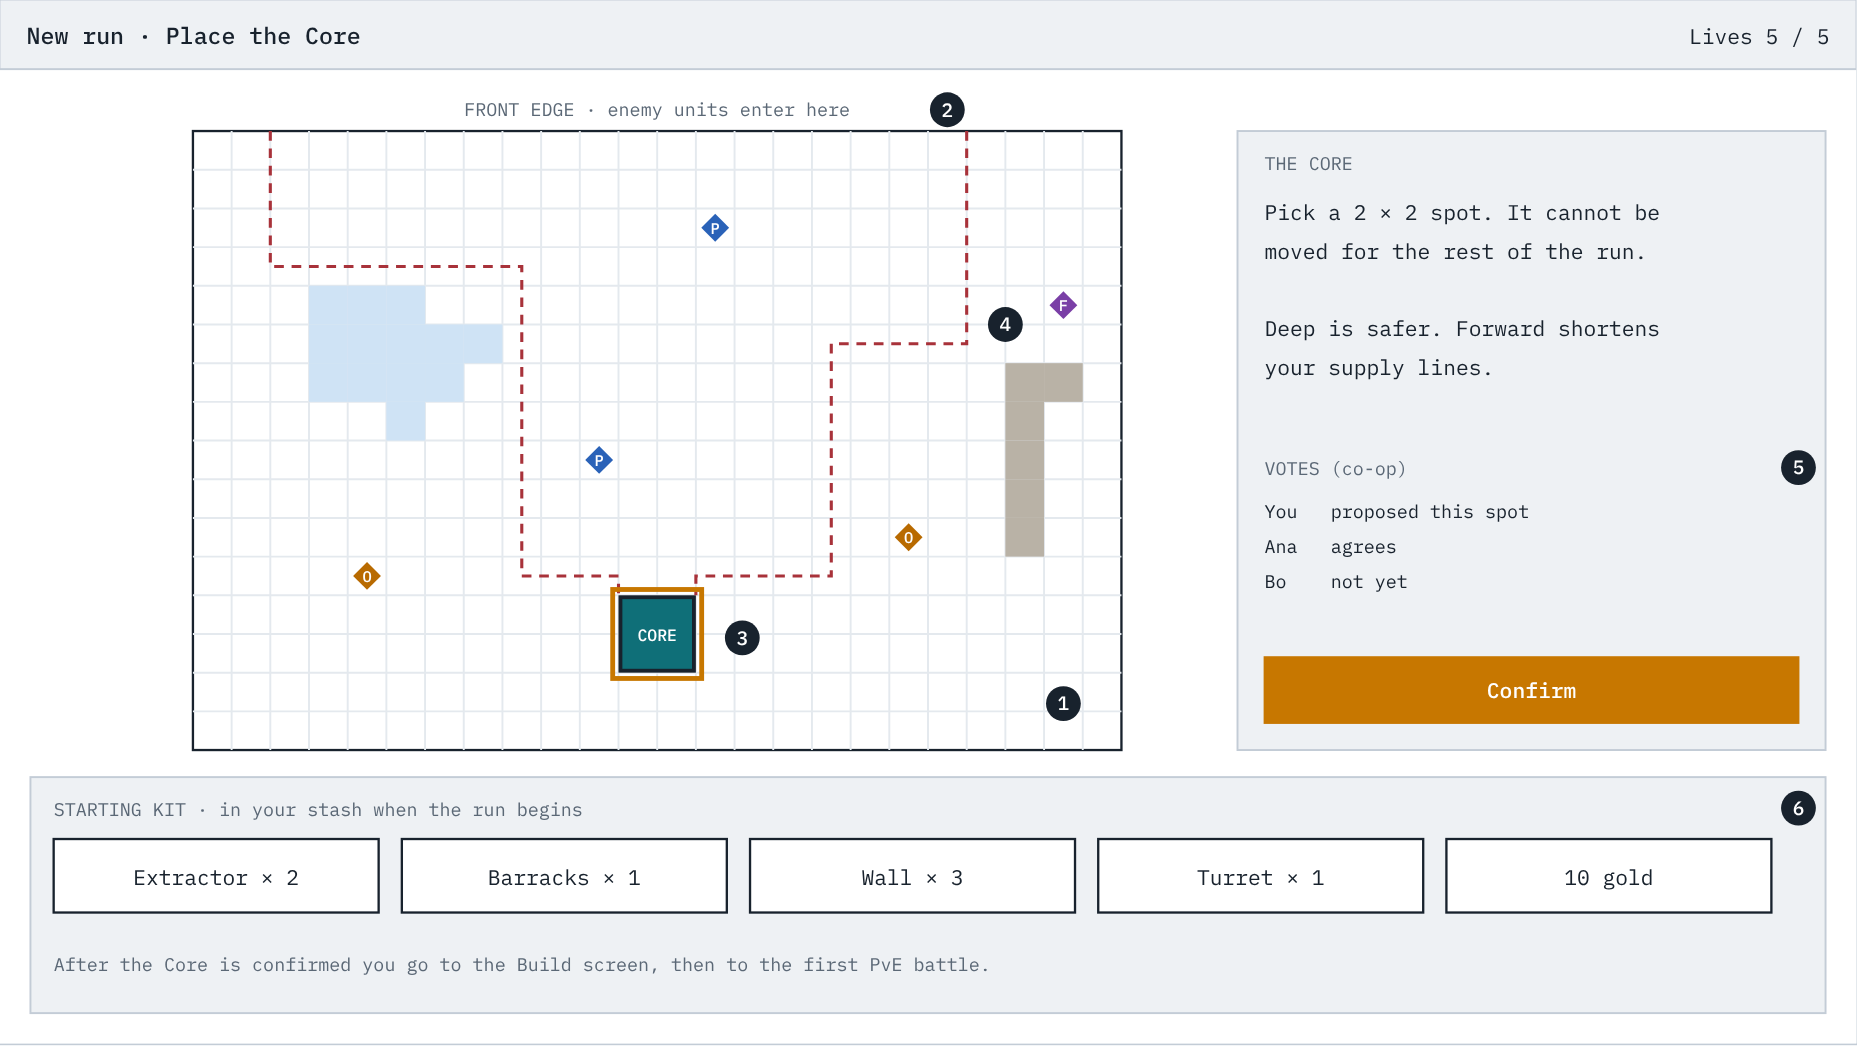
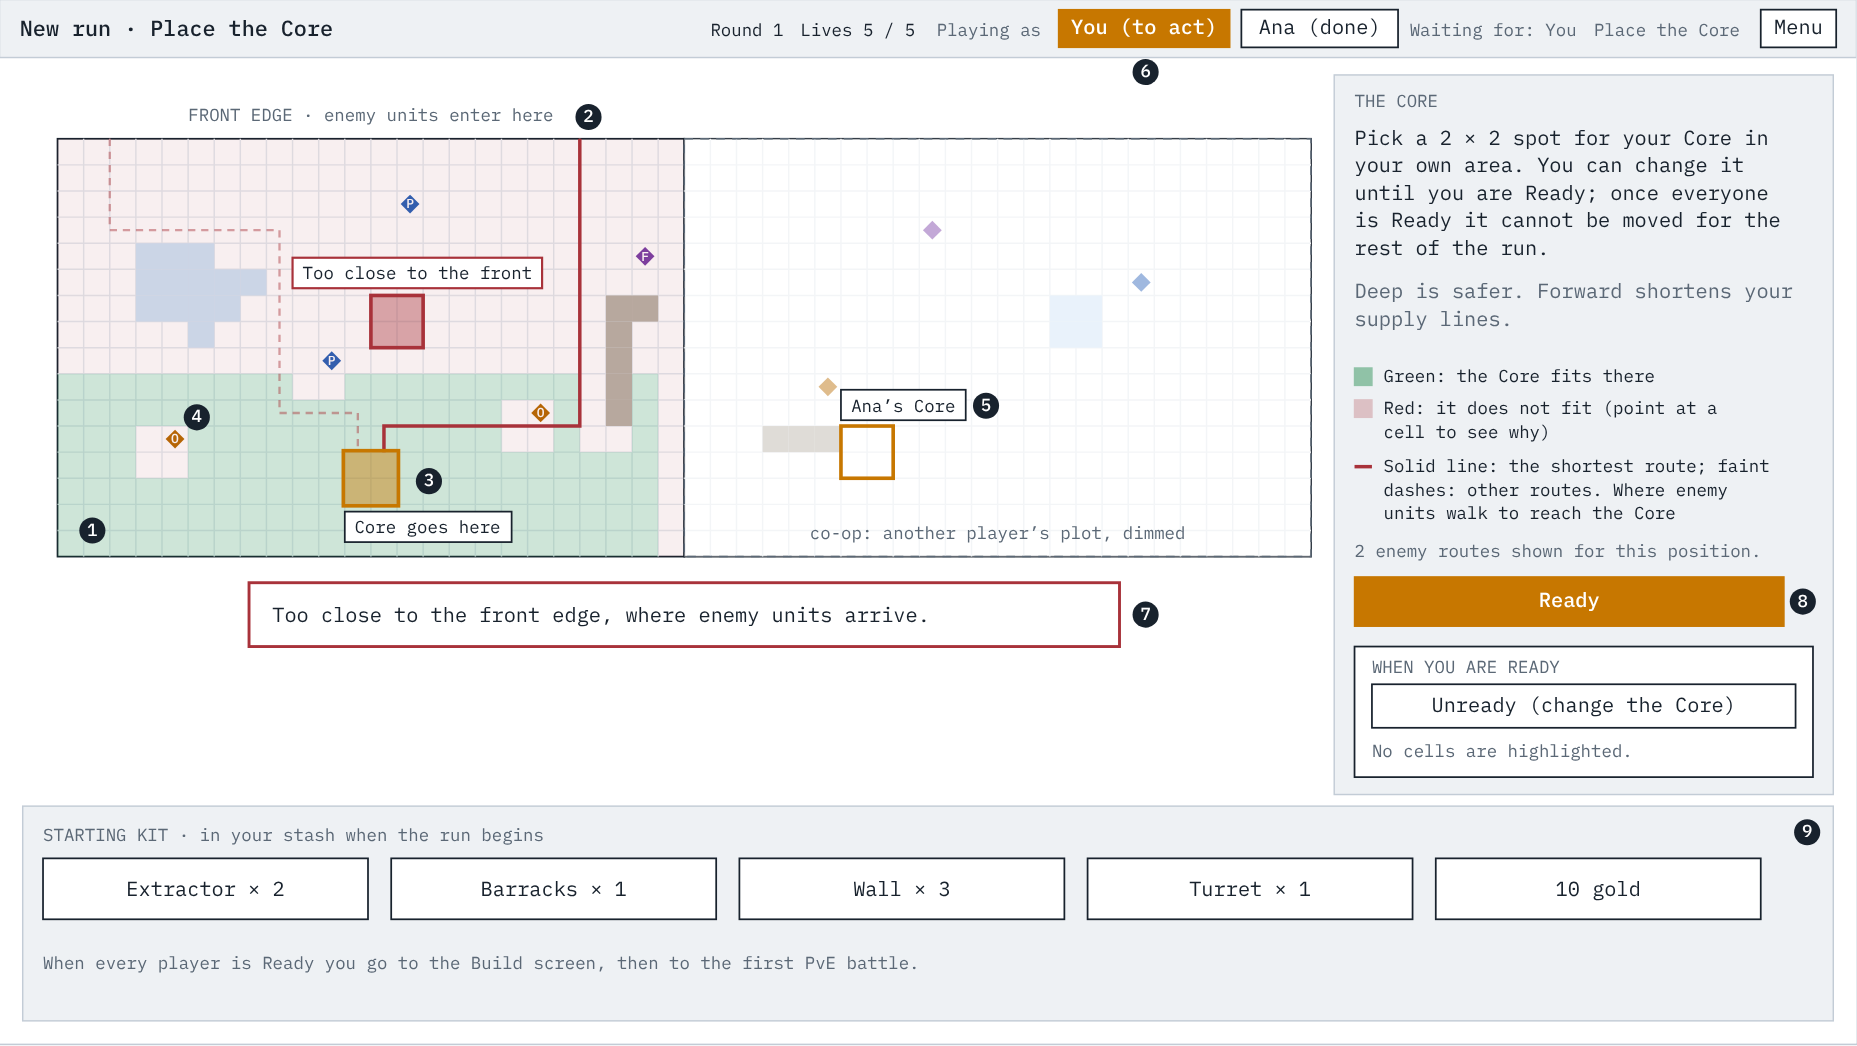
#183: Core placement wireframe redrawn for per-player placement (#217)
Section 6 of screens.html and 6-core-placement.png show the current design: each player places their own Core on their own plot, legal cells are highlighted, the chosen spot is marked, Ready and Unready are per player, and the acting-player switcher sits in the run bar. The old vote list is gone. The wireframes README matches the new callouts.

Part of #183.

diff --git a/docs/wireframes/screens.html b/docs/wireframes/screens.html
@@ -10,7 +10,7 @@
 :root {
   --bg: #f3f5f7; --sheet: #ffffff; --panel: #eef1f4; --ink: #18222d; --muted: #5b6876; --line: #c3ccd6; --grid: #e4e9ee;
   --ally: #0f6f78; --ally-soft: #d9eff0; --enemy: #a8323a; --enemy-soft: #f6dfe1; --neutral: #7a6a3a;
-  --ore: #b86a00; --power: #2a62b8; --flux: #7a3fa6;
+  --ok: #1f8a4c; --ore: #b86a00; --power: #2a62b8; --flux: #7a3fa6;
   --water: #cfe3f5; --cliff: #b9b2a6; --accent: #c77700; --accent-ink: #ffffff;
   --font-display: "Space Grotesk", "Segoe UI", system-ui, sans-serif;
   --font-body: "Inter", system-ui, -apple-system, "Segoe UI", sans-serif;
@@ -20,14 +20,14 @@
   :root:not([data-theme="light"]) {
     --bg: #11171d; --sheet: #19212a; --panel: #212b36; --ink: #e6ebf0; --muted: #9aa7b4; --line: #3a4653; --grid: #26313c;
     --ally: #5cc4cc; --ally-soft: #153438; --enemy: #ef7f86; --enemy-soft: #3b1d20; --neutral: #c9b26a;
-    --ore: #f2a93b; --power: #7fb0f5; --flux: #c394ea;
+    --ok: #5cc98a; --ore: #f2a93b; --power: #7fb0f5; --flux: #c394ea;
     --water: #1f3a52; --cliff: #5a554c; --accent: #f2a93b; --accent-ink: #11171d; color-scheme: dark;
   }
 }
 :root[data-theme="dark"] {
   --bg: #11171d; --sheet: #19212a; --panel: #212b36; --ink: #e6ebf0; --muted: #9aa7b4; --line: #3a4653; --grid: #26313c;
   --ally: #5cc4cc; --ally-soft: #153438; --enemy: #ef7f86; --enemy-soft: #3b1d20; --neutral: #c9b26a;
-  --ore: #f2a93b; --power: #7fb0f5; --flux: #c394ea;
+  --ok: #5cc98a; --ore: #f2a93b; --power: #7fb0f5; --flux: #c394ea;
   --water: #1f3a52; --cliff: #5a554c; --accent: #f2a93b; --accent-ink: #11171d; color-scheme: dark;
 }
 body { background: var(--bg); color: var(--ink); font-family: var(--font-body); font-size: 16px; line-height: 1.55; }
@@ -76,6 +76,10 @@ svg text { font-family: var(--font-mono); fill: var(--ink); white-space: pre; }
 .mark { fill: var(--ink); } .mark-t { fill: var(--sheet); font-size: 10px; font-weight: 500; }
 .tag { font-size: 7px; font-weight: 500; } .spot { fill: var(--accent); stroke: var(--ink); stroke-width: 1; }
 .low { fill: none; stroke: var(--enemy); stroke-width: 2.5; stroke-dasharray: 3 3; } .lowt { font-size: 8px; font-weight: 500; fill: var(--enemy); }
+.vok { fill: var(--ok); opacity: 0.22; } .vbad { fill: var(--enemy); opacity: 0.08; } .vok-k { fill: var(--ok); opacity: 0.45; stroke: var(--ok); } .vbad-k { fill: var(--enemy); opacity: 0.25; stroke: var(--enemy); }
+.veil { fill: var(--sheet); opacity: 0.55; } .chosen { fill: var(--accent); opacity: 0.45; } .hov { fill: var(--enemy); fill-opacity: 0.4; stroke: var(--enemy); stroke-width: 2.5; }
+.box.hov-b { stroke: var(--enemy); stroke-width: 1.5; } .box.hint { stroke: var(--enemy); stroke-width: 2; }
+.path.solid { stroke-dasharray: none; stroke-width: 2.4; } .path.faint { opacity: 0.45; }
 .sel { fill: none; stroke: var(--accent); stroke-width: 2.5; }
 .chart-a { fill: none; stroke: var(--ally); stroke-width: 2; } .chart-e { fill: none; stroke: var(--enemy); stroke-width: 2; }
 .card { fill: var(--sheet); stroke: var(--ink); stroke-width: 1.2; } .card.pick { stroke: var(--accent); stroke-width: 3; }
@@ -186,13 +190,16 @@ svg text { font-family: var(--font-mono); fill: var(--ink); white-space: pre; }
   <section>
     <h2>6. Core placement</h2>
     <p>The first decision of a run. The whole map is shown, and every player chooses where their own Core goes, in their own plot; other plots are dimmed. A Core cannot be moved once everyone is ready.</p>
-    <div class="sheet"><svg id="s-core" viewBox="0 0 960 540" role="img" aria-label="Core placement wireframe: the empty generated map with a proposed Core position, instructions and a Ready button on the right, and the starting kit below."></svg></div>
+    <div class="sheet"><svg id="s-core" class="big" viewBox="0 0 1280 720" role="img" aria-label="Core placement wireframe: the player's own plot with legal Core spots in green and the rest in red, the chosen spot with the enemy routes to it, a dimmed neighbour plot, the acting-player switcher in the run bar, a reason line, the Ready and Unready buttons, and the starting kit below."></svg></div>
     <ol class="notes">
-      <li>The whole map, visible and buildable from the start. It never expands.</li>
+      <li>Your own plot. Green cells are where the 2 × 2 Core fits (the cell is its lowest-left corner); red cells do not fit. A spot must lie wholly inside your plot, off water, cliffs and resource nodes, and not too close to the front edge.</li>
       <li>The front edge, where enemy units will enter.</li>
-      <li>The proposed Core position, with the routes enemy units would take to reach it.</li>
+      <li>Your chosen spot, marked "Core goes here", with the routes enemy units would take to reach it: the shortest as a solid line, the others faint. Pointing at a green cell previews its routes. Click a green cell to choose it; clicking the chosen cell again changes nothing. You can pick another until you are Ready.</li>
       <li>Resource nodes. Where the rare one sits is a big part of the choice.</li>
-      <li>In co-op every player places their own Core and readies up; there is no vote. You can change yours until you are ready (Unready reopens it). The step ends when everyone has placed a Core and is ready. Solo just readies.</li>
+      <li>Another player's plot, dimmed and without verdicts. Their chosen spot is outlined and carries their name.</li>
+      <li>The acting-player switcher in the run bar, for playing every seat from one device (debug; only with two or more players). Each button shows "(to act)" or "(done)"; the bar also says who is still awaited. The screen always shows the acting player's view.</li>
+      <li>The reason line. Pointing at a red cell says why it does not fit. A refused click or Ready (for example "Choose a spot for the Core first.", naming the player who still has to pick) shows here too, until the pointer moves to another cell or the acting player changes.</li>
+      <li>Ready needs a chosen spot. Each player readies for themselves. A Ready player is offered no spots, and the button reads "Unready (change the Core)"; Unready reopens the choice. The step ends when every player has placed a Core and is Ready; solo it ends when you are Ready. There is no vote.</li>
       <li>The starting kit, waiting in the stash for the first build.</li>
     </ol>
   </section>
@@ -312,9 +319,11 @@ svg text { font-family: var(--font-mono); fill: var(--ink); white-space: pre; }
       R(g, q.x + 1.5, q.y + 1.5, q.w - 3, q.h - 3, "bld" + (enemy ? " e" : ""));
       if (!bare) T(g, q.x + q.w / 2, q.y + q.h / 2 + 3.5, b[4], "bl", "middle");
     });
-    var k = C(d.core[0], d.core[1], 2, 2);
-    R(g, k.x + 1, k.y + 1, k.w - 2, k.h - 2, "core" + (enemy ? " e" : ""));
-    if (!bare) T(g, k.x + k.w / 2, k.y + k.h / 2 + 3.5, "CORE", "core-t", "middle");
+    if (d.core) {
+      var k = C(d.core[0], d.core[1], 2, 2);
+      R(g, k.x + 1, k.y + 1, k.w - 2, k.h - 2, "core" + (enemy ? " e" : ""));
+      if (!bare) T(g, k.x + k.w / 2, k.y + k.h / 2 + 3.5, "CORE", "core-t", "middle");
+    }
     return g;
   }
   function units(p, list, cls, r) { list.forEach(function (u) { el(p, "circle", { cx: u[0], cy: u[1], r: r || 3.5, class: cls }); }); }
@@ -536,24 +545,67 @@ svg text { font-family: var(--font-mono); fill: var(--ink); white-space: pre; }
 
   // ================= 6. CORE PLACEMENT =================
   (function () {
-    var s = document.getElementById("s-core"), S = 20, bx = 100, by = 68, bw = H * S;
-    topbar(s, "New run · Place the Core", "", "Lives 5 / 5");
-    var empty = { lake: mine.lake, cliff: mine.cliff, nodes: mine.nodes, cond: [], bld: [], walls: [], core: mine.core };
-    T(s, bx + bw / 2, by - 8, "FRONT EDGE · enemy units enter here", "ts tm", "middle");
-    board(s, bx, by, S, empty, false);
-    function path(pts) { el(s, "polyline", { class: "path", points: pts.map(function (q) { return (bx + q[1] * S) + "," + (by + (W - q[0]) * S); }).join(" ") }); }
-    path([[16,20],[10.5,20],[10.5,16.5],[4.5,16.5],[4.5,13],[4,13]]);
-    path([[16,2],[12.5,2],[12.5,8.5],[4.5,8.5],[4.5,11],[4,11]]);
-    R(s, bx + 11 * S - 3, by + 12 * S - 3, 2 * S + 6, 2 * S + 6, "sel");
-    R(s, 640, 68, 304, 320, "panel"); T(s, 654, 88, "THE CORE", "ts tm");
-    lines(s, 654, 114, ["Pick a 2 × 2 spot in your own area.", "Change it until you are Ready.", "", "Deep is safer. Forward shortens", "your supply lines."], "t", 20);
-    T(s, 654, 246, "READY (co-op)", "ts tm");
-    lines(s, 654, 268, ["You   placed, ready", "Ana   placed, not ready", "Bo    not placed"], "ts", 18);
-    btn(s, 654, 340, 276, 34, "Ready", true);
-    R(s, 16, 402, 928, 122, "panel"); T(s, 28, 422, "STARTING KIT · in your stash when the run begins", "ts tm");
-    ["Extractor × 2", "Barracks × 1", "Wall × 3", "Turret × 1", "10 gold"].forEach(function (k, i) { R(s, 28 + i * 180, 434, 168, 38, "box"); T(s, 28 + i * 180 + 84, 458, k, "t", "middle"); });
-    T(s, 28, 502, "When every player is Ready you go to the Build screen, then to the first PvE battle.", "ts tm");
-    mark(s, bx + 450, by + 296, 1); mark(s, bx + bw / 2 + 150, by - 11, 2); mark(s, bx + 284, by + 262, 3); mark(s, bx + 420, by + 100, 4); mark(s, 930, 242, 5); mark(s, 930, 418, 6);
+    var s = document.getElementById("s-core"), S = 18, bx = 40, by = 96, bw = H * S, bh = W * S, nbx = bx + bw;
+    topbar(s, "New run · Place the Core", "", "", 1280, 720);
+    // run bar: round, lives, the acting-player switcher (debug multi-seat), who is awaited, step, Menu
+    T(s, 490, 25, "Round 1", "ts"); T(s, 552, 25, "Lives 5 / 5", "ts");
+    T(s, 646, 25, "Playing as", "ts tm");
+    btn(s, 730, 7, 118, 26, "You (to act)", true); btn(s, 856, 7, 108, 26, "Ana (done)");
+    T(s, 972, 25, "Waiting for: You", "ts tm"); T(s, 1099, 25, "Place the Core", "ts tm"); btn(s, 1214, 7, 52, 26, "Menu");
+    // front edge label
+    T(s, bx + bw / 2, by - 12, "FRONT EDGE · enemy units enter here", "ts tm", "middle");
+    // your plot: the empty map, then the verdict on every cell (green: the 2 x 2 Core fits there, red: it does not)
+    board(s, bx, by, S, { lake: mine.lake, cliff: mine.cliff, nodes: mine.nodes, cond: [], bld: [], walls: [], core: null }, false);
+    function hit(list, dp, fr) { return list.some(function (c) { return c[0] === dp && c[1] === fr; }); }
+    function fits(fr, dp) {
+      if (fr > 22 || dp > 6) return false;
+      for (var dy = 0; dy < 2; dy++) for (var dx = 0; dx < 2; dx++) {
+        if (hit(mine.lake, dp + dy, fr + dx) || hit(mine.cliff, dp + dy, fr + dx) || hit(mine.nodes, dp + dy, fr + dx)) return false;
+      }
+      return true;
+    }
+    for (var fr = 0; fr < H; fr++) for (var dp = 0; dp < W; dp++) {
+      R(s, bx + fr * S, by + (W - 1 - dp) * S, S, S, fits(fr, dp) ? "vok" : "vbad");
+    }
+    // the neighbour's plot, dimmed, with their chosen spot outlined
+    board(s, nbx, by, S, { lake: [[8,14],[8,15],[9,14],[9,15]], cliff: [[4,3],[4,4],[4,5]], nodes: [[6,5,"ore"],[10,17,"power"],[12,9,"flux"]], cond: [], bld: [], walls: [], core: null }, false, true);
+    R(s, nbx, by, bw, bh, "veil"); R(s, nbx, by, bw, bh, "plot");
+    T(s, nbx + bw / 2, by + bh - 12, "co-op: another player’s plot, dimmed", "ts tm", "middle");
+    var ax = nbx + 6 * S, ay = by + (W - 3 - 2) * S;
+    R(s, ax, ay, 2 * S, 2 * S, "sel");
+    R(s, ax, ay - 25, 86, 21, "box"); T(s, ax + 43, ay - 10, "Ana’s Core", "ts", "middle");
+    // enemy routes to the chosen spot: the shortest solid, the other faint
+    function path(pts, cls) { el(s, "polyline", { class: cls, points: pts.map(function (q) { return (bx + q[1] * S) + "," + (by + (W - q[0]) * S); }).join(" ") }); }
+    path([[16,2],[12.5,2],[12.5,8.5],[5.5,8.5],[5.5,11.5],[4,11.5]], "path faint");
+    path([[16,20],[5,20],[5,12.5],[4,12.5]], "path solid");
+    // the chosen spot
+    var cx = bx + 11 * S, cy = by + (W - 2 - 2) * S;
+    R(s, cx, cy, 2 * S, 2 * S, "chosen"); R(s, cx - 1, cy - 1, 2 * S + 2, 2 * S + 2, "sel");
+    R(s, cx, cy + 2 * S + 5, 115, 21, "box"); T(s, cx + 57, cy + 2 * S + 20, "Core goes here", "ts", "middle");
+    // a red cell under the pointer, with its short reason
+    var hx = bx + 12 * S, hy = by + (W - 8 - 2) * S;
+    R(s, hx, hy, 2 * S, 2 * S, "hov"); R(s, hx - 54, hy - 26, 172, 21, "box hov-b"); T(s, hx + 32, hy - 11, "Too close to the front", "ts", "middle");
+    // the reason line: one fixed line, always in the same place
+    R(s, 172, 402, 600, 44, "box hint"); T(s, 188, 429, "Too close to the front edge, where enemy units arrive.", "t");
+    // right panel
+    R(s, 920, 52, 344, 496, "panel"); T(s, 934, 74, "THE CORE", "ts tm");
+    lines(s, 934, 100, ["Pick a 2 × 2 spot for your Core in", "your own area. You can change it", "until you are Ready; once everyone", "is Ready it cannot be moved for the", "rest of the run."], "t", 19);
+    lines(s, 934, 206, ["Deep is safer. Forward shortens your", "supply lines."], "t tm", 19);
+    R(s, 934, 254, 12, 12, "vok-k"); T(s, 954, 264, "Green: the Core fits there", "ts");
+    R(s, 934, 276, 12, 12, "vbad-k"); lines(s, 954, 286, ["Red: it does not fit (point at a", "cell to see why)"], "ts", 16);
+    el(s, "line", { x1: 934, y1: 322, x2: 946, y2: 322, class: "path solid" });
+    lines(s, 954, 326, ["Solid line: the shortest route; faint", "dashes: other routes. Where enemy", "units walk to reach the Core"], "ts", 16);
+    T(s, 934, 384, "2 enemy routes shown for this position.", "ts tm");
+    btn(s, 934, 398, 296, 34, "Ready", true);
+    R(s, 934, 446, 316, 90, "box"); T(s, 946, 464, "WHEN YOU ARE READY", "ts tm");
+    btn(s, 946, 472, 292, 30, "Unready (change the Core)");
+    T(s, 946, 522, "No cells are highlighted.", "ts tm");
+    // starting kit
+    R(s, 16, 556, 1248, 148, "panel"); T(s, 30, 580, "STARTING KIT · in your stash when the run begins", "ts tm");
+    ["Extractor × 2", "Barracks × 1", "Wall × 3", "Turret × 1", "10 gold"].forEach(function (k, i) { R(s, 30 + i * 240, 592, 224, 42, "box"); T(s, 30 + i * 240 + 112, 618, k, "t", "middle"); });
+    T(s, 30, 668, "When every player is Ready you go to the Build screen, then to the first PvE battle.", "ts tm");
+    mark(s, 64, 366, 1); mark(s, bx + bw / 2 + 150, by - 15, 2); mark(s, cx + 2 * S + 22, cy + 20, 3); mark(s, 136, 288, 4);
+    mark(s, ax + 2 * S + 64, ay - 14, 5); mark(s, 790, 50, 6); mark(s, 790, 424, 7); mark(s, 1243, 415, 8); mark(s, 1246, 574, 9);
   })();
 
   // ================= 7. PVE CHOICE =================

diff --git a/docs/wireframes/README.md b/docs/wireframes/README.md
@@ -13,7 +13,8 @@ starting kit, threat pips, "an even chance to double it", "overload begins
 The specs are the source of truth. Where a wireframe and a spec disagree,
 the spec wins and the wireframe should be corrected.
 
-**The images predate the per-player design (issue #124).** They still show
+**Most images predate the per-player design (issue #124); 3, 4 and 6 are
+redrawn.** The others still show
 one shared board, one Core per side and a vote on the Core position. The text below has been updated to the current design
 (each player has their own plot and Core, builds only there, and can link to
 a neighbour across the plot border; there is no giving); the images and
@@ -116,16 +117,19 @@ Where a run starts or resumes. Saved runs are listed without limit. The host of 
 
 ## 6. Core placement
 
-The first decision of a run. The whole map is shown, and every player chooses where their own Core goes, in their own plot. A Core cannot be moved once everyone is ready. Other plots are dimmed. (The PNG still shows the earlier design, one Core chosen by vote; `screens.html` is current and the PNG is to be redrawn.)
+The first decision of a run. The whole map is shown, and every player chooses where their own Core goes, in their own plot. A Core cannot be moved once everyone is ready. Other plots are dimmed. The image shows your own plot with the legal spots in green, your chosen spot and its enemy routes, a partner's dimmed plot, and the acting-player switcher in the run bar.
 
 ![Core placement screen wireframe](6-core-placement.png)
 
 1. The whole map, visible and buildable from the start. It never expands.
 2. The front edge, where enemy units will enter.
-3. Your chosen Core position, with the routes enemy units would take to reach it. You can change it until the step ends: while you are not ready, or after un-readying.
+3. Your chosen Core position, marked "Core goes here", with the routes enemy units would take to reach it (the shortest solid, the others faint). You can change it until the step ends: while you are not ready, or after un-readying. Clicking the chosen cell again changes nothing.
 4. Resource nodes. Where the rare one sits is a big part of the choice.
-5. In co-op every player places their own Core and readies up; there is no vote. The step ends when everyone has placed a Core and is ready. Solo just confirms.
-6. The starting kit, waiting in the stash for the first build.
+5. Another player's plot, dimmed, with their chosen spot outlined and named.
+6. The acting-player switcher in the run bar, for playing every seat from one device (debug; two or more players): "(to act)" or "(done)" per player, and who is still awaited.
+7. The reason line: why a red cell does not fit, or why a click or Ready was refused. It stays until the pointer moves to another cell or the acting player changes.
+8. Ready needs a chosen spot and is per player. A Ready player is offered no spots and sees "Unready (change the Core)". In co-op every player places their own Core and readies up; there is no vote. The step ends when everyone has placed a Core and is ready. Solo just confirms.
+9. The starting kit, waiting in the stash for the first build.
 
 ## 7. PvE difficulty choice
 
